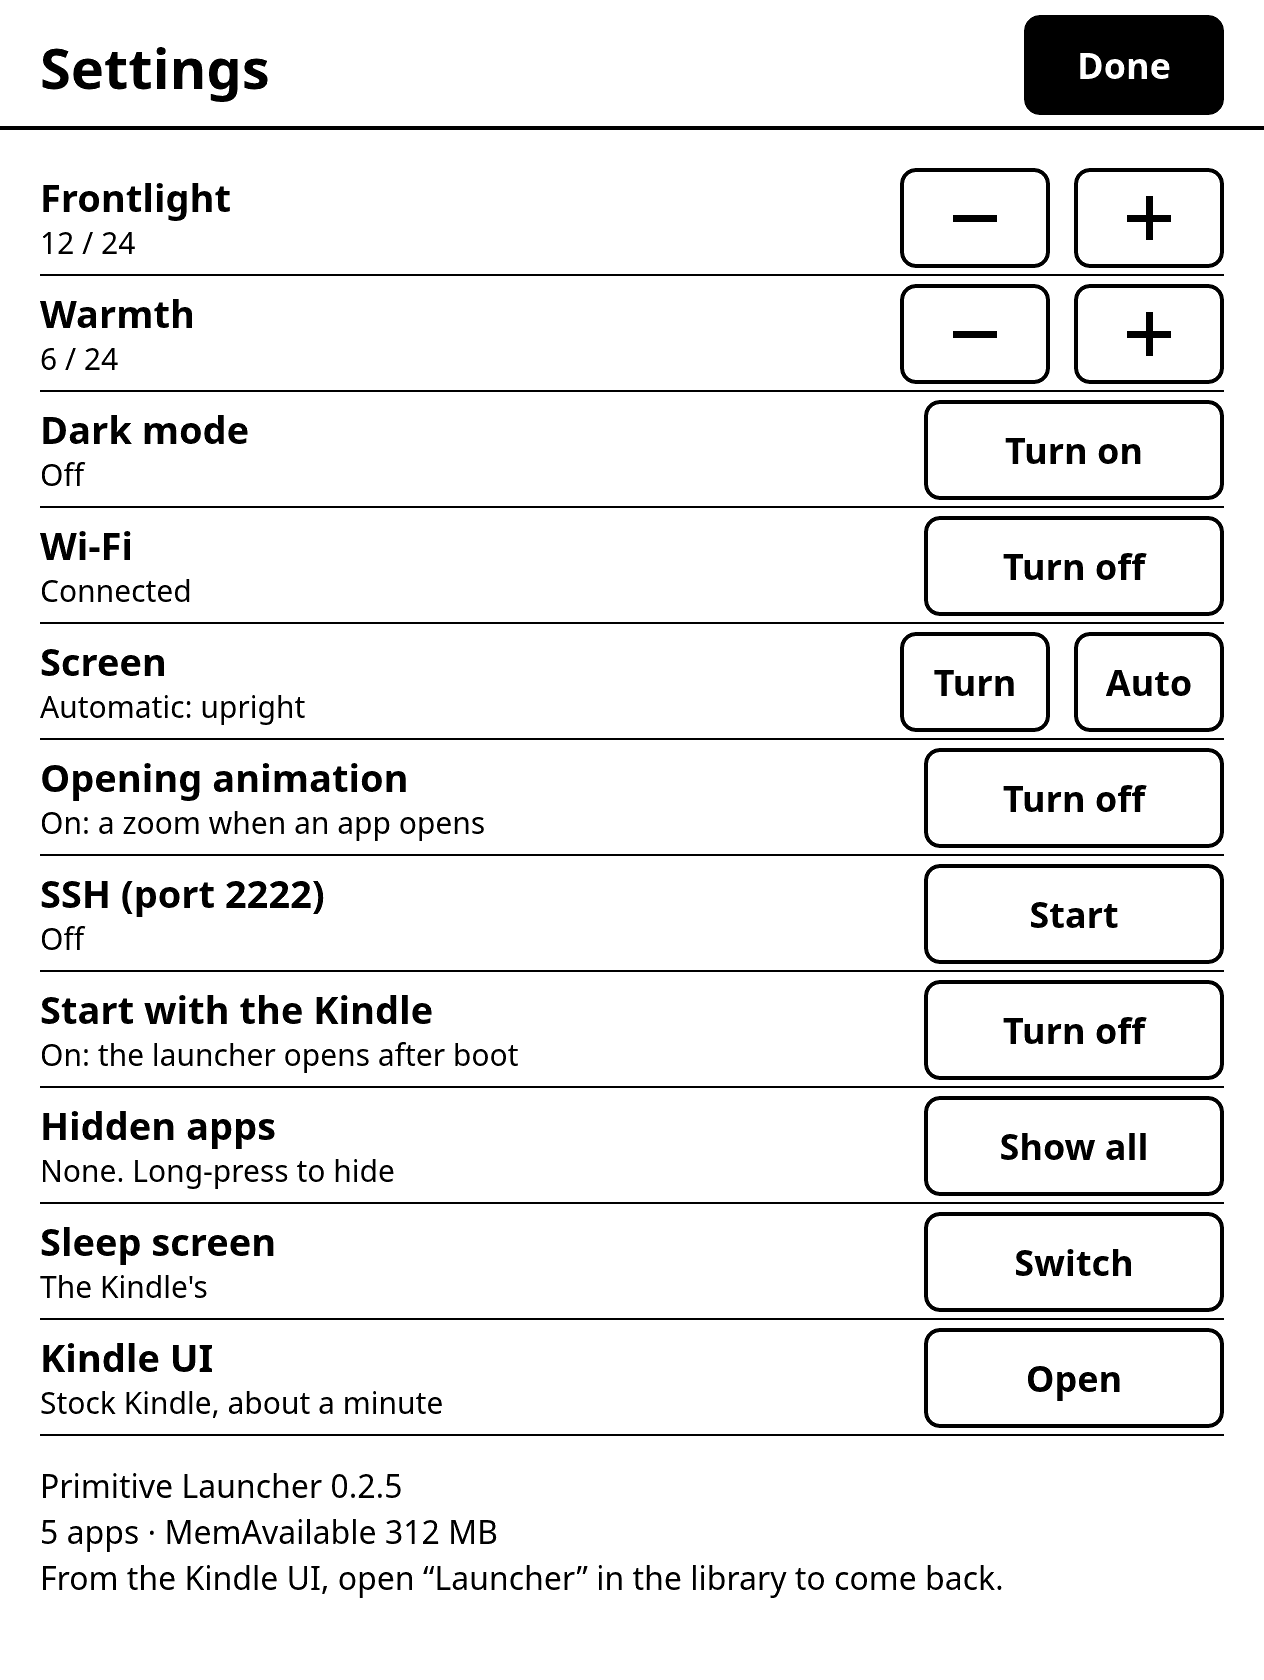
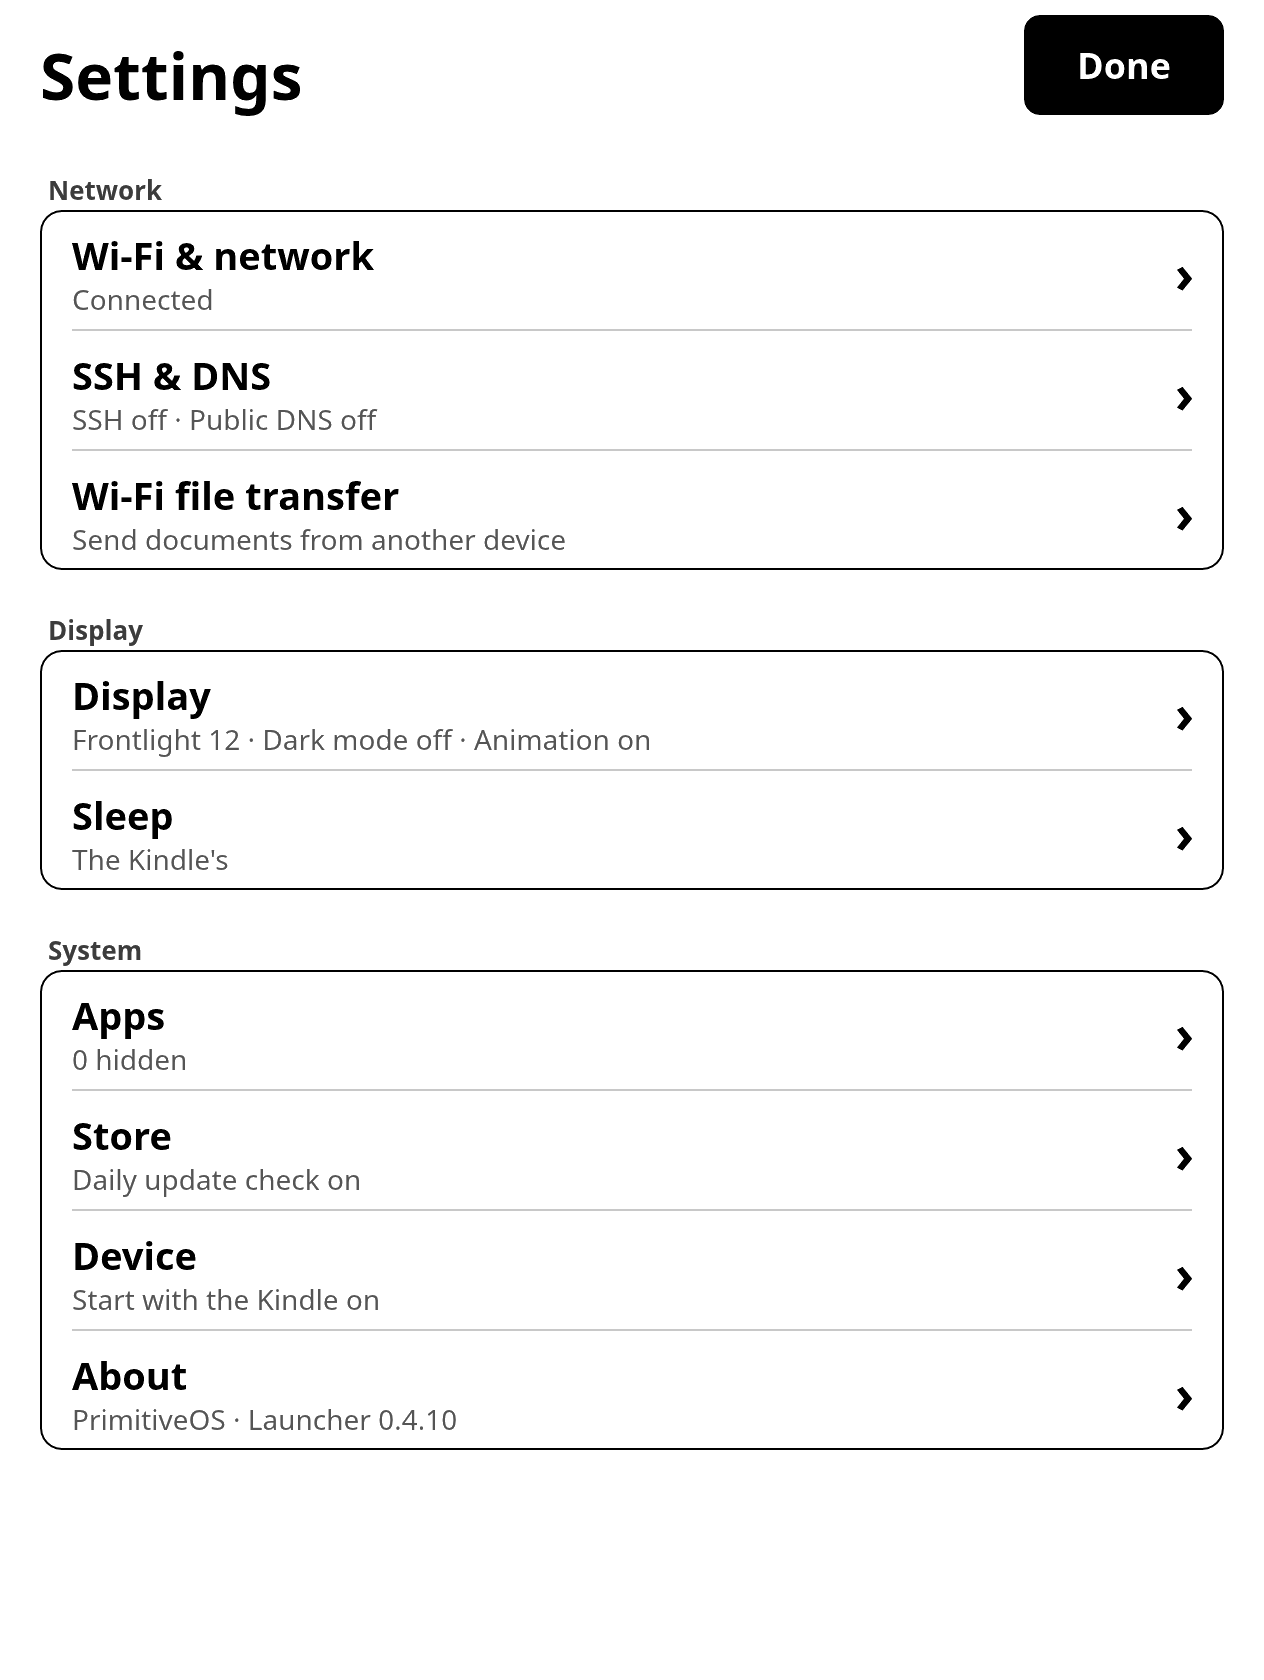
Preview PrimitiveOS in Launcher settings and document setup

Changed region(s): [[0.0309, 0.0929, 0.8022, 0.9595], [0.7097, 0.0929, 0.9873, 0.8667], [0.0309, 0.031, 0.2468, 0.0929]]

diff --git a/crates/kl-desktop/src/main.rs b/crates/kl-desktop/src/main.rs
@@ -54,7 +54,7 @@ fn demo_status() -> Status {
         animation: true,
         rotation: Rotation::Upright,
         memory: "MemAvailable 312 MB".into(),
-        ip: "192.168.1.28".into(),
+        ip: "192.0.2.28".into(),
         storage: "2.1 GB free".into(),
         system: primitive_quick::Stats { cpu: Some(12), ram: Some((180, 512)), storage: Some((1_100_000_000, 6_100_000_000)) },
     }
@@ -203,6 +203,10 @@ fn main() {
         ui.screen = screen;
         write_png(&out.join(format!("{name}.png")), W, H, &renderer.draw(&ui, &dark));
     }
+    ui.screen = kl_core::Screen::Page(kl_core::layout::Page::About);
+    write_png(&out.join("dark-settings-about.png"), W, H, &renderer.draw(&ui, &dark));
+    let turned = kl_render::for_panel(renderer.draw(&ui, &status), Rotation::UpsideDown, 0);
+    write_png(&out.join("settings-about-turned.png"), W, H, &turned);
     ui.screen = kl_core::Screen::Home;
     let first = ui.layout.cell(0);
     ui.handle(Input::LongTap(first.x as f32 + 5.0, first.y as f32 + 5.0));

diff --git a/docs/INSTALL.md b/docs/INSTALL.md
@@ -1,37 +1,28 @@
 # Install Primitive Launcher
 
-Primitive Launcher runs on a **jailbroken** Kindle. It is verified on the Kindle Oasis 3 (firmware 5.18.2)
-only. It does not jailbreak the Kindle and does not change any file of the Kindle's own software.
+Primitive Launcher is the first step in setting up PrimitiveOS on a **jailbroken** Kindle. It is verified on the
+Kindle Oasis 3 (firmware 5.18.2). It requires an existing jailbreak and keeps the Kindle's stock UI accessible.
 
 ## What you need
 
 - A jailbroken Kindle Oasis 3. Other models are not supported yet.
-- A computer and a USB cable, or SSH access to the Kindle.
-- Optional: [KOReader](https://koreader.rocks) and [Primitive Browser](https://github.com/DoanNguyenTrong/kindle-primitive-browser).
-  The launcher finds them by their library entries (`KOReader.sh`, `Primitive Browser.sh`).
+- A computer and a USB data cable for first-time setup.
 
-## Update with Store
+## First-time setup over USB
 
-If Launcher and Store are already on the Kindle, open **Store** and tap **Refresh**. When an
-approved Launcher release appears under **Updates**, select it and follow the prompts. The Launcher restarts to test
-the update. If the trial fails, the Launcher returns to the previous version. Your settings and library remain in place.
-
-## Install with a USB cable
-
-Install the launcher over USB for the first setup. Launcher updates through Store require the launcher
-self-update flow and a published listing.
+Launcher is the only app you copy by hand to get started.
 
 1. Download `primitive-launcher-<version>.zip` from the
    [latest release](https://github.com/DoanNguyenTrong/kindle-primitive-launcher/releases/latest) and unzip it.
    You can also use a `primitive-launcher-<version>-armhf.zip` package when one is available.
-2. Connect the Kindle to the computer **while the stock Kindle UI is on the screen**. (While the launcher runs,
-   the Kindle charges over USB but does not show up as a drive. Tap *Kindle UI* in the launcher first.)
-3. Copy the `launcher` and `documents` folders onto the root of the Kindle drive. Merge `documents` with the
-   folder that is already there; your books stay where they are.
+2. Connect the Kindle to the computer **while the stock Kindle UI is on the screen**.
+3. Copy the `launcher/` folder to the root of the Kindle drive. Copy `Launcher.sh` from the archive's `documents/`
+   folder into the existing `documents/` folder on the Kindle, alongside your books.
 4. Eject the Kindle and unplug it.
 5. Open **Launcher** in the Kindle library. The stock UI stops and the launcher takes the screen. The first time, the
    launcher also sets up its boot start (a few seconds more): a cable in at boot then shows its picture, and SSH starts
    by itself. No computer is needed for this.
+6. Open **Store** from the Launcher grid and follow the installation prompt. Browse and install apps through Store.
 
 To check a download, compare its SHA-256 with the `.sha256` file next to it in the release:
 
@@ -40,7 +31,13 @@ shasum -a 256 primitive-launcher-<version>.zip      # macOS and Linux
 certutil -hashfile primitive-launcher-<version>.zip SHA256    # Windows
 ```
 
-## Install over SSH (developers)
+## Update with Store
+
+On an existing Launcher that supports self-updates, open **Store** and tap **Refresh**. When a Launcher release
+appears under **Updates**, select it and follow the prompts. Launcher restarts to test the update and returns to
+the previous version if the trial fails.
+
+## Deploy a development build over SSH
 
 With the SSH server running on the Kindle (start it in the launcher's Settings > SSH & DNS, or with the quick
 settings' SSH switch), build and install from a checkout:
@@ -62,13 +59,10 @@ KINDLE_HOST=<kindle-ip> sh deploy/install-ssh.sh
 - **Edit:** long-press an app to move it, change its icon (PNG files in `launcher/icons/`) or hide it.
 - **Settings:** frontlight, warmth, dark mode, Wi-Fi, SSH and public DNS (SSH & DNS), screen turn, the opening
   animation and the sleep screen.
+- **About:** open **Settings → About** to see the PrimitiveOS system name, Launcher version, and Kindle details.
+  [About preview](images/settings-about.png)
 
 Your settings are in `launcher/settings.txt` and `launcher/apps.toml`. The log is `launcher/log-launcher.txt`.
-
-## Update over USB
-
-Copy the new `launcher` and `documents` folders over the old ones. `apps.toml`, `settings.txt`, your icons and
-your sleep pictures are not in the package, so they are kept.
 
 ## If something goes wrong
 

diff --git a/README.md b/README.md
@@ -22,8 +22,9 @@ Written in Rust. It replaces the stock Kindle home with a grid of your apps, on 
 
 ---
 
-Primitive Launcher is the interface of a jailbroken Kindle for people who read in KOReader, browse with
-[Primitive Browser](https://github.com/DoanNguyenTrong/kindle-primitive-browser) and run KUAL extensions. Every
+Primitive Launcher is the home screen for [PrimitiveOS](https://github.com/DoanNguyenTrong/kindle-primitive),
+the app suite for jailbroken Kindles. Open KOReader, browse with
+[Primitive Browser](https://github.com/DoanNguyenTrong/kindle-primitive-browser), or run KUAL extensions. Every
 app is an icon on one grid. While the launcher runs, the stock Kindle framework is stopped, which leaves the
 apps about 140 MB more memory. The stock Kindle UI stays installed and unchanged, one tap away, and it is what
 every failure falls back to.
@@ -44,6 +45,8 @@ every failure falls back to.
 <sub>Screenshots are from the desktop build of the same code, with a demo battery (78%), a fixed clock and a demo
 extension. They are not photos of a device.</sub>
 
+See the [About screen](docs/images/settings-about.png) for the PrimitiveOS name, Launcher version, and Kindle details.
+
 ## Why this exists
 
 On a jailbroken Kindle that is used for KOReader and other apps, the stock home screen is mostly in the way.
@@ -62,11 +65,16 @@ is used only when you ask for it, or when something goes wrong.
 
 ## Quick start
 
-1. **Download** `primitive-launcher-<version>.zip` from the [latest release](https://github.com/DoanNguyenTrong/kindle-primitive-launcher/releases/latest).
-2. **Copy** the `launcher` and `documents` folders onto your jailbroken Kindle's root, from the stock Kindle UI.
-3. **Open** *Launcher* in the Kindle library.
+Primitive Launcher is the one app you copy by hand to set up PrimitiveOS.
 
-The full steps, upgrades and removal are in the [install guide](docs/INSTALL.md).
+1. **Download** `primitive-launcher-<version>.zip` from the [latest release](https://github.com/DoanNguyenTrong/kindle-primitive-launcher/releases/latest) and extract it.
+2. With the stock Kindle UI open, connect your jailbroken Kindle over USB. Copy `launcher/` to the root of the Kindle
+   drive and `Launcher.sh` from the archive's `documents/` into the Kindle's existing `documents/` folder. Eject and
+   unplug the Kindle.
+3. **Open** *Launcher* in the Kindle library.
+4. Open **Store** from the Launcher grid and follow its prompt. Use Store to find and install the rest of the apps.
+
+The [install guide](docs/INSTALL.md) covers first-time setup, updates, and recovery.
 
 ## Why it is better
 
